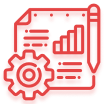
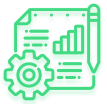
contact done

diff --git a/style.css b/style.css
@@ -29,13 +29,13 @@ nav {
     text-decoration: none;
     color: black;
     font-size: 36px;
-    padding-left: 15px;
+    padding-left: 25px;
     transition-property: all;
     transition-duration: 0.5s;
 }
 
 .clickables:hover {
-    color: #E44444;
+    color: #43da84;
     transform: scale(1.2);
 }
 
@@ -70,7 +70,7 @@ nav {
 }
 
 #last {
-    color: #E44444;
+    color: #43da84;
     margin-left: 15px;
 
 }
@@ -118,7 +118,7 @@ nav {
 }
 
 .information button:hover {
-    background-color: #E44444;
+    background-color: #ebf9f1;
 }
 
 
@@ -187,6 +187,10 @@ nav {
 
 }
 
+.hidden h1 {
+    color: #43da84;
+}
+
 
 
 .bookstyle {
@@ -204,16 +208,22 @@ nav {
 
 .cme {
     font-weight: bold;
-    font-size: 52px;
-    width: 100%;
+    font-size: 92px;
+    width: fit-content;
     height: 110px;
+    display: flex;
+    justify-content: center;
+    gap: 20px;
+    margin-bottom: 50px;
 }
 
 .contactMe {
     display: grid;
     grid-template-columns: 1fr 1fr;
-    gap: 10px;
+    gap: 50px;
 }
+
+.full {}
 
 .ned {
     display: flex;
@@ -225,15 +235,76 @@ nav {
 
 .ned input {
     height: 50px;
+    width: 300px;
     outline: none;
-    border: solid black 5px;
-    width: 200px;
+    border: none;
+    background-color: #ebf9f1;
+    border-bottom: solid #ccc 2px;
+    margin-left: 20px;
+    font-size: 20px;
+    padding-left: 5px;
+
 }
 
-.ned textarea {
-    outline: none;
-    border: solid black 5px;
-    width: 500px;
-    height: 200px;
+.ned label {
+    display: flex;
+    justify-content: center;
+    padding-top: 10px;
+    height: 50px;
+}
 
+#message {
+    display: flex;
+    justify-content: center;
+}
+
+
+.casein textarea {
+    outline: none;
+    background-color: #ebf9f1;
+    border: solid #ccc 2px;
+    width: 100%;
+    height: 200px;
+    font-size: 20px;
+    border-radius: 10px;
+    padding-top: 5px;
+    padding-left: 5px;
+
+}
+
+.casein label {
+    font-size: 30px;
+}
+
+.casein {
+    display: flex;
+    gap: 20px;
+    flex-direction: column;
+
+}
+
+.waste {
+    width: 100%;
+    margin-top: 30px;
+    display: flex;
+    justify-content: center;
+
+}
+
+.waste button {
+    border: none;
+    color: white;
+    border-radius: 10px;
+    background-color: black;
+    width: 140px;
+    height: 70px;
+    transition-property: all;
+    transition-duration: 0.5s;
+
+}
+
+.waste button:hover {
+    transform: scale(1.2);
+    background-color: #43da84;
+    color: black;
 }

diff --git a/index.html b/index.html
@@ -193,31 +193,52 @@
 
         <div class="cme" id="move">
             <p>Contact Me</p>
+            <img src="Mask group (1).png">
         </div>
 
-        <div class="contactMe">
+        <form action="https://api.web3forms.com/submit" method="POST" class="full">
 
 
+            <div class="contactMe">
 
+                <input type="hidden" name="access_key" value="b7efbff0-7b30-4d1d-88ca-3e281806cdc9">
+                <div class="ned">
+                    <label>Name:</label>
+                    <input name="first_name" type="text" placeholder="Enter here">
+                </div>
 
-            <div class="ned">
-                <label>Name:</label>
-                <input type="text" placeholder="Enter here" required>
+                <div class="ned">
+                    <label>Email:</label>
+                    <input name="email" type="email" placeholder="Enter here">
+                </div>
+
             </div>
 
-            <div class="ned">
-                <label>Email:</label>
-                <input type="email" placeholder="Enter here" required>
+            <div class="casein" id="message">
+                <label>Direct Message:</label>
+                <textarea name="message" placeholder="Enter Here"></textarea>
             </div>
 
+
+            <div class="waste">
+                <button>Submit</button>
+            </div>
+
+        </form>
+        <br>
+        <br>
+
+        <div class="footer">
+            <img src="Line 64.png">
+            <p>Back to the Top</p>
+            <img src="image 12.png">
+            <img src="image 13.png">
+            <img src="image 14.png">
+            <img src="image 15.png">
+
+            <p><span>©2025 Ryan Zhao</span> All Rights Reserved</p>
+
         </div>
-
-        <div class="ned" id="message">
-            <label>Direct Message:</label>
-            <textarea placeholder="Enter Here" required></textarea>
-        </div>
-
-
 
 
     </body>
